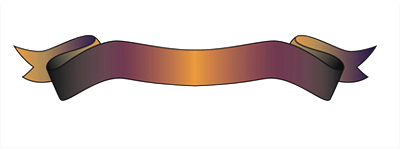
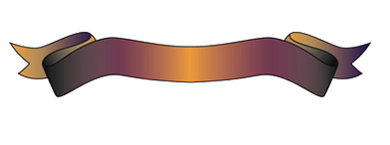
Les images nont plus de bordures et les plateaux donnent un peu de challenge

Changed region(s): [[0.0, 0.1931, 0.9538, 0.6897]]

diff --git a/SlideProject/src/terrains/Terrain1.java b/SlideProject/src/terrains/Terrain1.java
@@ -5,6 +5,7 @@ import java.io.FileOutputStream;
 import java.io.IOException;
 import java.io.ObjectOutputStream;
 
+import org.jsfml.graphics.Texture;
 import org.jsfml.system.Vector2i;
 
 import slide.Entite;
@@ -13,61 +14,55 @@ import slide.Joueur;
 import slide.Plateau;
 import slide.cases.Arrivee;
 import slide.cases.Case;
+import slide.cases.Fleche;
 import slide.cases.Glace;
 import slide.cases.Sol;
+import slide.cases.Fleche.Sens;
 
 public class Terrain1 {
 
 	public static void main(String[] args) {
-		
 		Joueur joueur = new Joueur();
-
-		// creation damierCase
 		Case glace = Glace.getInstance();
 		Case sol = Sol.getInstance();
-		Case[][] cases = new Case[8][8];
-		for (int j = 0; j < 8; j++) {
-			for (int i = 0; i < 8; i++) {
-				cases[i][j] = glace;
-			}
-		}
-		cases[5][2] = sol;
-		cases[6][2] = sol;
-		cases[5][3] = sol;
-		cases[6][3] = sol;
-		//cases[5][4] = sol
-		cases[6][4] = sol;	
-		//cases[5][5] = sol; 
-		cases[6][5] = sol;
-		//cases[5][6] = sol; 
-		cases[6][6] = sol;
-		cases[6][1]= new Arrivee("sequencefinale.plt");
-		// creation damierentite
-		Entite[][] entites = new Entite[8][8];
+		
+		Terrain terrain = new  Terrain(8);
+		
+		
+		/* Traitement des cases */
+		terrain.remplirDamier(glace);
+		terrain.cases[6][6]= new Arrivee("terrain2.plt");
+		terrain.cases[3][3]=Fleche.getInstance(Sens.DROITE);
+		terrain.cases[6][3]=Fleche.getInstance(Sens.BAS);
+		/* Traitementes des entites */
+		TextureEntite RI = TextureEntite.ROCHERIMMOBILE;
+		TextureEntite RM = TextureEntite.ROCHERMOBILE;
+		
+		terrain.placerBordure(RI);
+		
+		terrain.placerEntiteImmobile(3, 5, RI);
+		terrain.placerEntiteImmobile(3, 6, RI);
+		
+		terrain.placerEntiteImmobile(3, 2, RI);
+		terrain.placerEntiteImmobile(4, 2, RI);
+		terrain.placerEntiteImmobile(5, 2, RI);
+		terrain.placerEntiteImmobile(6, 2, RI);
+		terrain.placerEntiteImmobile(7, 2, RI);
+		
+		terrain.placerEntiteImmobile(3, 3, RI);
+		terrain.placerEntiteImmobile(4, 3, RI);
+		terrain.placerEntiteImmobile(5, 3, RI);
+		terrain.placerEntiteImmobile(6, 3, RI);
+		terrain.placerEntiteImmobile(7, 3, RI);	
 
-		entites[1][1] = new Entite(TextureEntite.ROCHERIMMOBILE,false);
-		entites[1][2] = new Entite(TextureEntite.ROCHERIMMOBILE,false);
-		entites[3][2] = new Entite(TextureEntite.ROCHERIMMOBILE,false);
-		entites[4][3] = new Entite(TextureEntite.ROCHERIMMOBILE,false);
-		entites[4][4] = new Entite(TextureEntite.ROCHERIMMOBILE,false);
-		entites[4][5] = new Entite(TextureEntite.ROCHERIMMOBILE,false);
-		entites[4][6] = new Entite(TextureEntite.ROCHERIMMOBILE,false);
-		entites[1][5] = new Entite(TextureEntite.ROCHERIMMOBILE,false);
-		entites[5][1] = new Entite(TextureEntite.ROCHERIMMOBILE,false);
+		terrain.placerEntiteMobile(2, 4, RM);
+		terrain.placerEntiteMobile(2, 6, RM);
+		terrain.placerEntiteMobile(3, 7, RM);
+		terrain.placerEntiteMobile(5, 7, RM);
+		
 
-		/* Bordure */
-		for (int i = 0; i < 8; i++) {
-			entites[0][i] = new Entite(TextureEntite.ROCHERIMMOBILE,false);
-			entites[7][i] = new Entite(TextureEntite.ROCHERIMMOBILE,false);
-
-			entites[i][0] = new Entite(TextureEntite.ROCHERIMMOBILE,false);
-			entites[i][7] = new Entite(TextureEntite.ROCHERIMMOBILE,false);
-		}
-
-		/* Joueur */
-		entites[2][4] = new Entite(TextureEntite.ROCHERMOBILE);
-
-		Plateau plateau0 = new Plateau(cases,entites,joueur,new Vector2i(1,6));
+		/* Creation du Plateau */
+		Plateau plateau0 = new Plateau(terrain.cases,terrain.entites,joueur,new Vector2i(1,6));
 		try {
 			ObjectOutputStream colimateur = new ObjectOutputStream(
 					new FileOutputStream("src/ressources/plateaux/terrain1.plt"));

diff --git a/SlideProject/src/terrains/Terrain2.java b/SlideProject/src/terrains/Terrain2.java
@@ -24,47 +24,44 @@ public class Terrain2 {
 		Case glace = Glace.getInstance();
 		Case sol = Sol.getInstance();
 		
-		Terrain terrain = new  Terrain(8);
+		Terrain terrain = new  Terrain(10);
 		
 		
 		/* Traitement des cases */
-		/* TODO Corriger linitialisation du damier */
-		//terrain.remplirDamier(glace);
-		for (int j = 0; j < 8; j++) {
-			for (int i = 0; i < 8; i++) {
-				terrain.cases[i][j] = glace;
-			}
-		}
-
+		terrain.remplirDamier(glace);
+		terrain.cases[2][2]= new Arrivee("sequencefinale.plt");
 		/* Traitementes des entites */
 		TextureEntite RI = TextureEntite.ROCHERIMMOBILE;
 		TextureEntite RM = TextureEntite.ROCHERMOBILE;
 		
 		terrain.placerBordure(RI);
 		
-		terrain.placerEntiteImmobile(3, 5, RI);
-		terrain.placerEntiteImmobile(3, 6, RI);
-		terrain.placerEntiteImmobile(4, 4, RI);
-		terrain.placerEntiteImmobile(4, 3, RI);
-		/*
-		terrain.entites[1][1] = new Entite(TextureEntite.ROCHERIMMOBILE,false);
-		terrain.entites[1][2] = new Entite(TextureEntite.ROCHERIMMOBILE,false);
-		terrain.entites[3][2] = new Entite(TextureEntite.ROCHERIMMOBILE,false);
-		terrain.entites[4][3] = new Entite(TextureEntite.ROCHERIMMOBILE,false);
-		terrain.entites[4][4] = new Entite(TextureEntite.ROCHERIMMOBILE,false);
-		terrain.entites[4][5] = new Entite(TextureEntite.ROCHERIMMOBILE,false);
-		terrain.entites[4][6] = new Entite(TextureEntite.ROCHERIMMOBILE,false);
-		terrain.entites[1][5] = new Entite(TextureEntite.ROCHERIMMOBILE,false);
-		terrain.entites[5][1] = new Entite(TextureEntite.ROCHERIMMOBILE,false);*/
-
-
-		/* Bordure */
-
-		terrain.placerEntiteMobile(2, 6, RM);
-		terrain.placerEntiteMobile(2, 4, RM);
-		terrain.placerEntiteMobile(3, 7, RM);
+		terrain.placerEntiteImmobile(2, 3, RI);
+		terrain.placerEntiteImmobile(2, 6, RI);
+		terrain.placerEntiteImmobile(2, 9, RI);
+		terrain.placerEntiteImmobile(3, 2, RI);
+		terrain.placerEntiteImmobile(3, 4, RI);
+		terrain.placerEntiteImmobile(3, 7, RI);
+		terrain.placerEntiteImmobile(5, 2, RI);
+		terrain.placerEntiteImmobile(6, 5, RI);
+		terrain.placerEntiteImmobile(6, 8, RI);
+		terrain.placerEntiteImmobile(7, 2, RI);
+		terrain.placerEntiteImmobile(7, 3, RI);
+		terrain.placerEntiteImmobile(7, 7, RI);		
+		terrain.placerEntiteImmobile(7, 8, RI);
+		terrain.placerEntiteImmobile(8, 4, RI);
+		terrain.placerEntiteImmobile(8, 7, RI);
+		terrain.placerEntiteImmobile(9, 2, RI);		
+		terrain.placerEntiteImmobile(9, 3, RI);
 		
-		Plateau plateau0 = new Plateau(terrain.cases,terrain.entites,joueur,new Vector2i(1,6));
+		terrain.placerEntiteMobile(4, 6, RM);
+		terrain.placerEntiteMobile(5, 5, RM);
+		terrain.placerEntiteMobile(6, 6, RM);
+		terrain.placerEntiteMobile(5, 7, RM);
+		terrain.placerEntiteMobile(8, 6, RM);
+		
+		/* Creation du Plateau */
+		Plateau plateau0 = new Plateau(terrain.cases,terrain.entites,joueur,new Vector2i(4,5));
 		try {
 			ObjectOutputStream colimateur = new ObjectOutputStream(
 					new FileOutputStream("src/ressources/plateaux/terrain2.plt"));

diff --git a/SlideProject/src/terrains/Terrain.java b/SlideProject/src/terrains/Terrain.java
@@ -38,11 +38,15 @@ public class Terrain {
 	}
 	
 	public void remplirDamier (Case type){
-		for (int i=1; i< TAILLE; i++){
-			for (int j=1; j< TAILLE; j++){
+		for (int i=0; i< TAILLE; i++){
+			for (int j=0; j< TAILLE; j++){
 				cases[i][j] = type; 
 			}
 		}
+	}
+	
+	public void placerCase (int i,int j, Case type) {
+		cases[i-1][j-1] = type;
 	}
 	
 }
